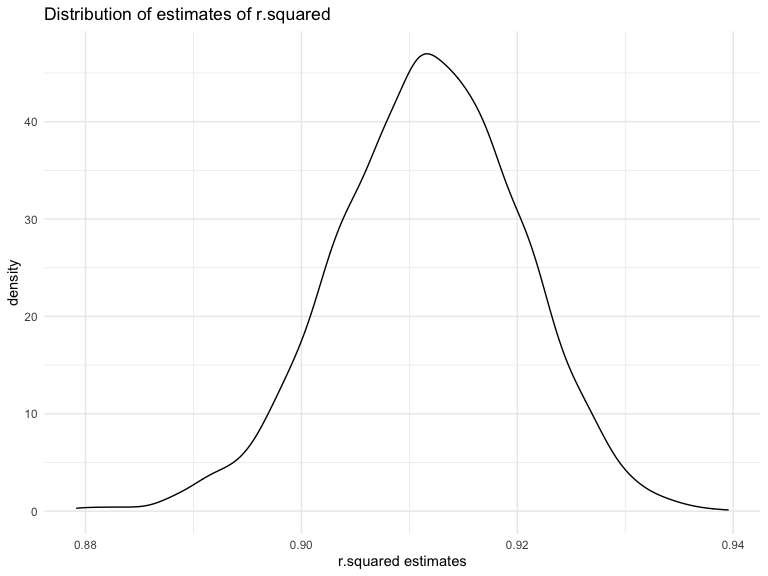
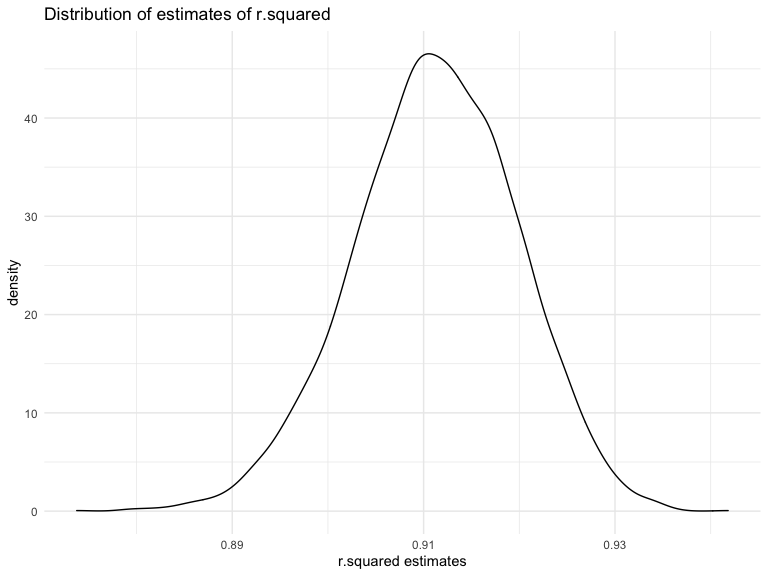
final version 1.1

diff --git a/p8105_zl2978.md b/p8105_zl2978.md
@@ -258,12 +258,12 @@ head(boot_strap)
     ## # A tibble: 6 x 2
     ##   r.squared log_beta
     ##       <dbl>    <dbl>
-    ## 1     0.914     2.01
-    ## 2     0.900     2.00
-    ## 3     0.920     2.01
-    ## 4     0.917     2.05
-    ## 5     0.908     2.01
-    ## 6     0.919     2.01
+    ## 1     0.906     2.02
+    ## 2     0.914     2.00
+    ## 3     0.911     2.02
+    ## 4     0.909     1.99
+    ## 5     0.910     2.00
+    ## 6     0.918     1.98
 
 Then I will identify the 2.5% and 97.5% quantiles to provide a 95%
 confidence interval for r.squared and log(β̂ 0∗β̂ 1).
@@ -275,8 +275,8 @@ quantile(boot_strap$r.squared, probs = c(0.025,0.975)) %>%
 
 |       |         x |
 | :---- | --------: |
-| 2.5%  | 0.8940789 |
-| 97.5% | 0.9276765 |
+| 2.5%  | 0.8937457 |
+| 97.5% | 0.9272915 |
 
 95% CI for r.suqared
 
@@ -287,8 +287,8 @@ quantile(boot_strap$log_beta, probs = c(0.025,0.975)) %>%
 
 |       |        x |
 | :---- | -------: |
-| 2.5%  | 1.963101 |
-| 97.5% | 2.059000 |
+| 2.5%  | 1.967246 |
+| 97.5% | 2.059363 |
 
 95% CI for log product
 
